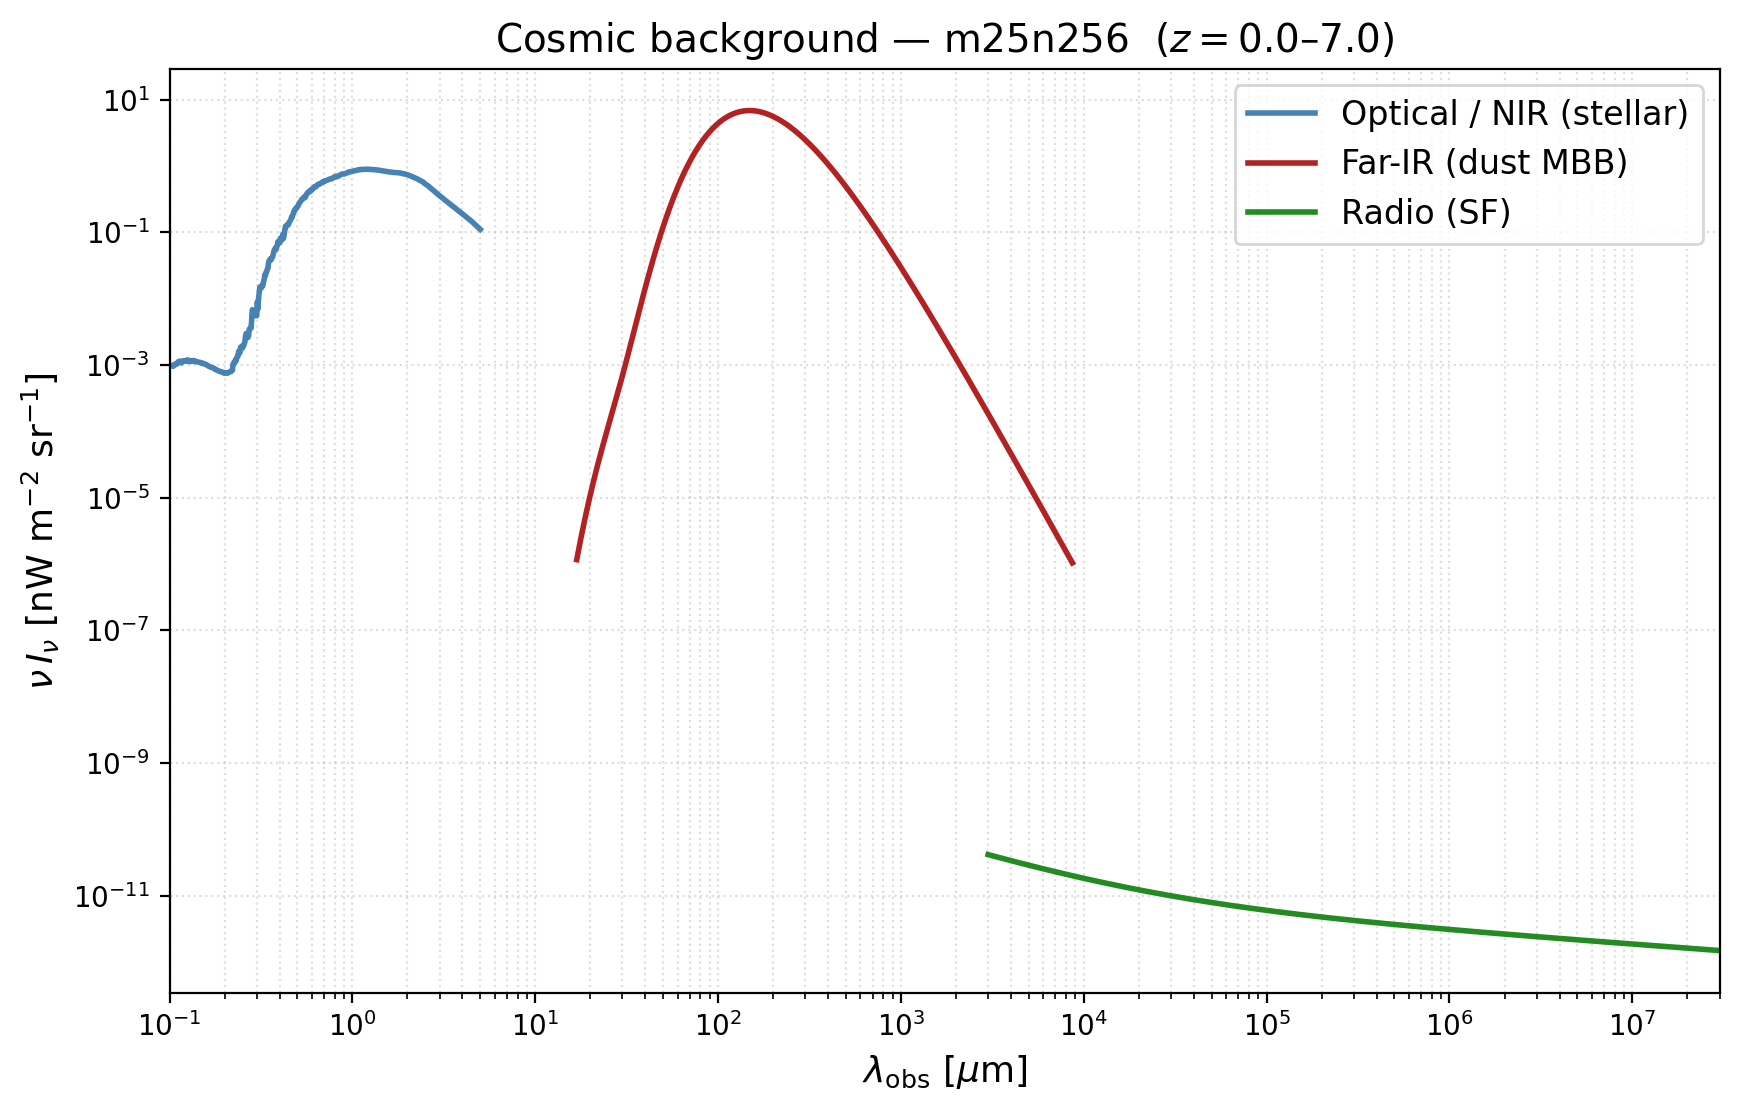
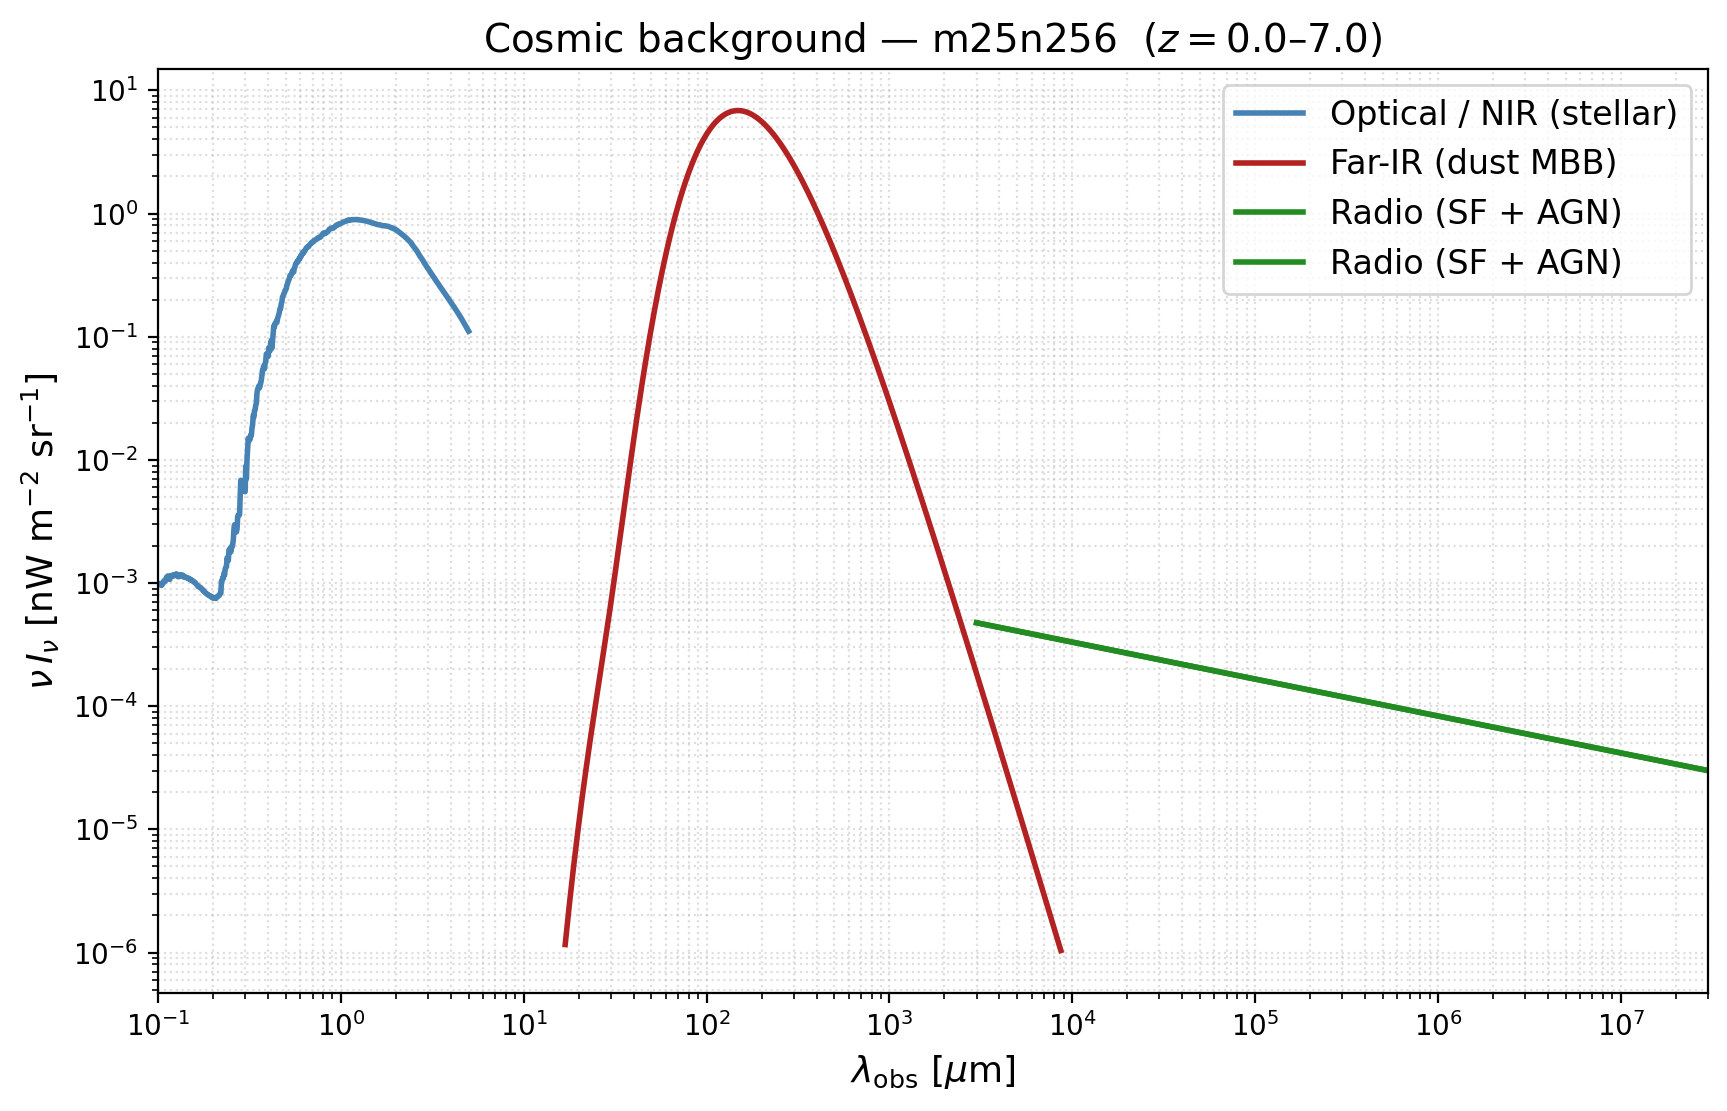
added in agn component of radio emission to the sf radio for full radio SED

diff --git a/src/backgrounds/radio.py b/src/backgrounds/radio.py
@@ -6,7 +6,7 @@ import caesar
 
 from src.config import SimConfig
 from src.utils import get_redshift
-from src.physics.radio import radio_luminosity_sf, CHABRIER_FRAC_M5
+from src.physics.radio import radio_luminosity_sf, agn_radio_luminosity, CHABRIER_FRAC_M5
 from src.lightcone.generate import generate_lightcone
 
 LIGHTCONE_DIR = Path(__file__).resolve().parent.parent.parent / "data" / "lightcones"
@@ -40,20 +40,21 @@ def lightcone_radio_background(cfg, area_deg2=1.0, z_min=0.0, z_max=3.0,
                                 n_points=500):
     """
     Compute the radio cosmic background intensity from star formation
-    using the Condon (1992) / Thomas+2021 prescription.
+    (Condon 1992 / Thomas+2021) **and** AGN accretion.
 
     For each lightcone galaxy
     -------------------------
-    1. Read total SFR from the CAESAR HDF5 catalogue.
-    2. Compute  SFR[M >= 5 Msun] = f_IMF × SFR_total   (Chabrier IMF).
-    3. At each *rest-frame* frequency  ν_rest = ν_obs (1+z),
-       evaluate P_ν(ν_rest) via Condon (1992) eqs 10+11.
-    4. Convert to observed flux  F_ν = (1+z) P_ν / (4π d_L²).
+    SF  :  P_ν(ν_rest) via Condon (1992) eqs 10+11          [W Hz⁻¹]
+    AGN :  P_rad(ν_rest) from Mdot_BH relation + ν^{-0.7}   [erg s⁻¹ Hz⁻¹]
+
+    Observed flux:  F_ν = (1+z) P_ν / (4π d_L²)
 
     Returns
     -------
-    nu_obs   : array (Hz)               – observed frequency grid
-    intensity : array (erg/s/cm²/Hz/sr) – specific intensity
+    nu_obs    : array (Hz)               – observed frequency grid
+    intensity : array (erg/s/cm²/Hz/sr)  – total specific intensity
+    intensity_sf  : array                – SF-only component
+    intensity_agn : array                – AGN-only component
     """
     lc_path = build_lightcone(cfg, area_deg2, z_min, z_max)
 
@@ -66,7 +67,8 @@ def lightcone_radio_background(cfg, area_deg2=1.0, z_min=0.0, z_max=3.0,
     nu_obs_hz = np.logspace(np.log10(1e7), np.log10(1e11), n_points)  # Hz
     omega_sr  = area_deg2 * (np.pi / 180.0) ** 2
 
-    total_flux = np.zeros_like(nu_obs_hz)   # erg/s/cm²/Hz
+    total_flux_sf  = np.zeros_like(nu_obs_hz)   # erg/s/cm²/Hz
+    total_flux_agn = np.zeros_like(nu_obs_hz)
     cache = {}
 
     unique_snaps = np.unique(snap_arr)
@@ -86,37 +88,47 @@ def lightcone_radio_background(cfg, area_deg2=1.0, z_min=0.0, z_max=3.0,
                 if "galaxy_data/sfr" not in f:
                     print(f"  WARN: SFR missing in snap {snap}, skipping")
                     continue
-                sfr = f["galaxy_data/sfr"][:]
-            cache[snap] = sfr
+                sfr   = f["galaxy_data/sfr"][:]
+                bhmdot = (f["galaxy_data/bhmdot"][:]
+                          if "galaxy_data/bhmdot" in f
+                          else np.zeros_like(sfr))
+            cache[snap] = (sfr, bhmdot)
 
-        sfr = cache[snap]
+        sfr, bhmdot = cache[snap]
 
         for gi, gz in zip(gal_idx[smask], gal_z[smask]):
             gi = int(gi)
             if gi >= len(sfr):
                 continue
 
-            sfr_gal = sfr[gi]
-            if not (np.isfinite(sfr_gal) and sfr_gal > 0):
-                continue
+            sfr_gal   = sfr[gi]
+            bhmdot_gal = bhmdot[gi]
 
             # Rest-frame frequencies for observed grid
             nu_rest_ghz = nu_obs_hz * (1.0 + gz) / 1e9
 
-            # Rest-frame radio luminosity at each frequency (W/Hz)
-            P_nu = radio_luminosity_sf(sfr_gal, nu_rest_ghz)
+            # Luminosity distance  (cm)
+            d_L = cfg.cosmology.luminosity_distance(gz).to(u.cm).value
+            prefactor = (1.0 + gz) / (4.0 * np.pi * d_L ** 2)
 
-            # Convert  W/Hz → erg/s/Hz  (1 W = 1e7 erg/s)
-            P_nu_cgs = P_nu * 1e7
+            # ── SF contribution ──────────────────────────────
+            if np.isfinite(sfr_gal) and sfr_gal > 0:
+                P_nu_sf = radio_luminosity_sf(sfr_gal, nu_rest_ghz)  # W/Hz
+                P_nu_sf_cgs = P_nu_sf * 1e7                          # erg/s/Hz
+                flux_sf = prefactor * P_nu_sf_cgs
+                if np.all(np.isfinite(flux_sf)):
+                    total_flux_sf += flux_sf
 
-            # Observed flux density:  F_ν = (1+z) L_ν / (4π d_L²)
-            d_L  = cfg.cosmology.luminosity_distance(gz).to(u.cm).value
-            flux = (1.0 + gz) * P_nu_cgs / (4.0 * np.pi * d_L ** 2)
-
-            if np.all(np.isfinite(flux)):
-                total_flux += flux
+            # ── AGN contribution ─────────────────────────────
+            if np.isfinite(bhmdot_gal) and bhmdot_gal > 0:
+                P_agn = agn_radio_luminosity(bhmdot_gal, nu_rest_ghz)  # erg/s/Hz
+                flux_agn = prefactor * P_agn
+                if np.all(np.isfinite(flux_agn)):
+                    total_flux_agn += flux_agn
 
     # Convert summed flux to surface brightness
-    intensity = total_flux / omega_sr
+    intensity_sf  = total_flux_sf  / omega_sr
+    intensity_agn = total_flux_agn / omega_sr
+    intensity     = intensity_sf + intensity_agn
     print("Done.")
-    return nu_obs_hz, intensity
+    return nu_obs_hz, intensity, intensity_sf, intensity_agn

diff --git a/scripts/run_combined.py b/scripts/run_combined.py
@@ -1,5 +1,5 @@
 """
-Combined optical + far-IR cosmic background.
+Combined optical + far-IR + radio cosmic background.
 
 Usage:
     python scripts/run_combined.py --sim m25n256 --area 1.0 --z_min 0 --z_max 3
@@ -52,9 +52,9 @@ def main():
     )
     nuInu_fir = lam_fir * I_lam_fir        # λ I_λ = ν I_ν  (erg/s/cm²/sr)
 
-    # ── Radio (star formation) ────────────────────────────────────
-    print("\n=== Radio background (SF, Condon 1992 / Thomas+2021) ===")
-    nu_radio, I_nu_radio = lightcone_radio_background(
+    # ── Radio (SF + AGN) ──────────────────────────────────────────
+    print("\n=== Radio background (SF + AGN) ===")
+    nu_radio, I_nu_radio, _, _ = lightcone_radio_background(
         cfg, area_deg2=args.area, z_min=args.z_min, z_max=args.z_max
     )
     lam_radio_um = (c_light / (nu_radio * u.Hz)).to_value(u.AA) * 1e-4  # → µm
@@ -84,7 +84,9 @@ def main():
     ax.loglog(lam_fir_um, fir_plot, lw=2, color='firebrick',
               label='Far-IR (dust MBB)')
     ax.loglog(lam_radio_um, nuInu_radio, lw=2, color='forestgreen',
-                  label='Radio (SF)')
+              label='Radio (SF + AGN)')
+    ax.loglog(lam_radio_um, nuInu_radio, lw=2, color='forestgreen',
+              label='Radio (SF + AGN)')
 
     # Mark crossover if it exists within overlapping range
     lam_min = max(lam_opt_um.min(), lam_fir_um.min())

diff --git a/src/physics/radio.py b/src/physics/radio.py
@@ -79,6 +79,35 @@ def radio_sed_sf(sfr_total, nu_ghz_array, f_imf=None):
 
     Returns
     -------
-    P_nu : array   –  W Hz^-1 at each frequency.
+    P_nu : array   -  W Hz^-1 at each frequency.
     """
     return radio_luminosity_sf(sfr_total, nu_ghz_array, f_imf)
+
+
+def agn_radio_luminosity(mdot_bh, nu_ghz=1.4):
+    """
+    AGN radio luminosity from black hole accretion with spectral index.
+
+    P_Rad / 1e30 erg s^-1 = Mdot_BH / 4e17 g s^-1
+
+    scaled by a power-law SED  (nu / 1.4 GHz)^{-0.7}.
+
+    Parameters
+    ----------
+    mdot_bh : float or array
+        Black hole accretion rate  [M_sun / yr].
+    nu_ghz : float or array
+        Frequency in GHz (default 1.4 GHz).
+
+    Returns
+    -------
+    P_rad : float or array
+        Radio luminosity in erg s^-1.
+    """
+    MSUN_PER_YR_TO_G_PER_S = 6.304e25          # 1 M_sun/yr → g/s
+    mdot_cgs = np.asarray(mdot_bh) * MSUN_PER_YR_TO_G_PER_S
+    nu = np.asarray(nu_ghz, dtype=float)
+
+    P_ref = (mdot_cgs / 4e17) * 1e30           # erg s^-1 at 1.4 GHz
+
+    return P_ref * (nu / 1.4) ** (-0.7)         # erg s^-1

diff --git a/scripts/run_combined_diagnostic.py b/scripts/run_combined_diagnostic.py
@@ -150,7 +150,7 @@ def main():
     ax_peak.grid(True, ls=':', alpha=0.4)
 
     # ── Save ──────────────────────────────────────────────────────
-    out = Path("figures/combined/diagnostic") / f"combined_bg_{cfg.name}_diagnostic.png"
+    out = Path("figures/combined/diagnostics") / f"combined_bg_{cfg.name}_diagnostic.png"
     out.parent.mkdir(parents=True, exist_ok=True)
     fig.savefig(out, dpi=200, bbox_inches='tight')
     print(f"\nSaved → {out}")
